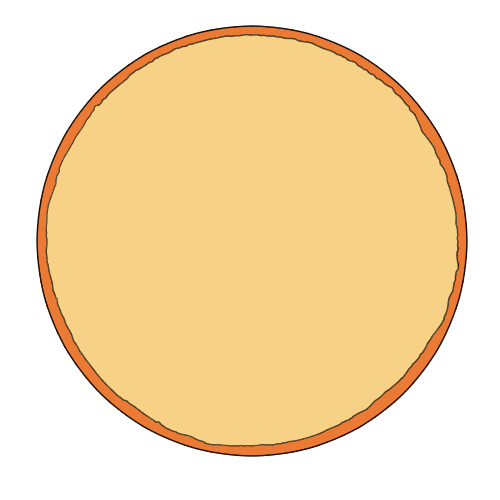
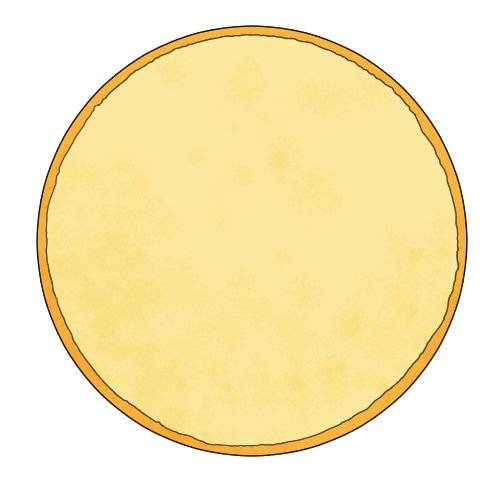
game setting final

Changed region(s): [[0.06, 0.03, 0.93, 0.93]]

diff --git a/src/comp/game/IngredientStack.jsx b/src/comp/game/IngredientStack.jsx
@@ -2,14 +2,25 @@ import React, { useState, useEffect } from 'react';
 import styled from 'styled-components';
 import patty from '../../assets/img/patty.png';
 import tomato from '../../assets/img/tomato.png';
-import backicon from '../../assets/icon/backicon.svg';
+import lettuce from '../../assets/img/lettuce.png';
+import cheese from '../../assets/img/cheese.png';
+import onion from '../../assets/img/onion.png';
+import bacon from '../../assets/img/bacon.png';
+import backicon from '../../assets/img/tongs.png';
 import bread_top from '../../assets/img/bread_top.png';
 import bread_bottom from '../../assets/img/bread_bottom.png';
+import bugger from '../../assets/img/bugger.png';
+import bell from '../../assets/img/bell.png';
+import { Link } from 'react-router-dom';
 
-const IngredientStack = () => {
+const IngredientStack = ({ orders }) => {
   const [stack, setStack] = useState([]);
   const [errorMessage, setErrorMessage] = useState("");
   const [top, setTop] = useState(null);
+
+  useEffect(() => {
+    console.log("주문 배열:", orders);
+  }, [orders]);
 
   useEffect(() => {
     console.log("현재 스택 값:", stack);
@@ -22,6 +33,19 @@ const IngredientStack = () => {
     setTop(value);
     setErrorMessage("");
     console.log("스택에 값이 추가되었습니다:", value);
+
+    if (value === 0) {
+      const reversedOrders = [...orders].reverse();
+      let ordersMatch = true;
+      for (let i = 0; i < newStack.length; i++) {
+          if (newStack[i] !== reversedOrders[i]) {
+              ordersMatch = false;
+              break;
+          }
+      }
+      console.log("비교 결과:", ordersMatch ? 1 : 0);
+  }
+
   };
 
   const handlePop = () => {
@@ -52,25 +76,32 @@ const IngredientStack = () => {
     <>
       <BackButton onClick={handlePop}></BackButton>
       <Dish image={
-          top === "1" ? patty :
-          top === "2" ? tomato :
-          top === "0" ? bread_top :
-          top === "7" ? bread_bottom :
+          top === 0 ? bread_top :
+          top === 1 ? tomato :
+          top === 2 ? lettuce :
+          top === 3 ? onion :
+          top === 4 ? bacon :
+          top === 5 ? cheese :
+          top === 6 ? patty :
+          top === 7 ? bread_bottom :
           null
       }></Dish>
+      <Bell to={'/outro'}/>
       <Desk>
-        <TopIngredient onClick={() => handlePush("0")} image={bread_top}></TopIngredient>
-        <TopIngredient onClick={() => handlePush("1")} image={patty}></TopIngredient>
-        <TopIngredient onClick={() => handlePush("2")} image={tomato}></TopIngredient>
-        <TopIngredient onClick={() => handlePush("7")} image={bread_bottom}></TopIngredient>
-        <BlueCircle onClick={handleBlueCircleClick}></BlueCircle>
+        <TopIngredient onClick={() => handlePush(0)} image={bread_top}></TopIngredient>
+        <TopIngredient onClick={() => handlePush(1)} image={tomato}></TopIngredient>
+        <TopIngredient onClick={() => handlePush(2)} image={lettuce}></TopIngredient>
+        <TopIngredient onClick={() => handlePush(3)} image={onion}></TopIngredient>
+        <TopIngredient onClick={() => handlePush(4)} image={bacon}></TopIngredient>
+        <TopIngredient onClick={() => handlePush(5)} image={cheese}></TopIngredient>
+        <TopIngredient onClick={() => handlePush(6)} image={patty}></TopIngredient>
+        <TopIngredient onClick={() => handlePush(7)} image={bread_bottom}></TopIngredient>
       </Desk>
-      </>
+    </>
   );
 };
 
 export default IngredientStack;
-
 
 const TopIngredient = styled.div`
     width : 100px;
@@ -92,14 +123,6 @@ const Desk = styled.div`
     align-items: center;
 `;
 
-const BlueCircle = styled.div`
-    width: 100px;
-    height: 100px;
-    background-color: blue;
-    border-radius: 50%; /* 원형 모양으로 만듦 */
-    cursor: pointer;
-`;
-
 const BackButton = styled.div`
     left: 50px;
     top: 50px;
@@ -108,6 +131,7 @@ const BackButton = styled.div`
     height: 50px;
     cursor: pointer;
     background : url(${backicon});
+    background-size : cover;
 `;
 
 const Dish = styled.div`
@@ -119,5 +143,16 @@ const Dish = styled.div`
     background: url(${props => props.image});
     background-size: cover;
     border-radius: 50%; /* 원형 모양으로 만듦 */
+    cursor: pointer;
+`;
+
+const Bell = styled(Link)`
+    position : absolute;
+    top: 55px;
+    left: 545px;
+    width : 90px;
+    height : 90px;
+    background : url(${bell});  
+    background-size: cover;
     cursor: pointer;
 `;

diff --git a/src/comp/game/OrderStack.jsx b/src/comp/game/OrderStack.jsx
@@ -1,31 +1,55 @@
 import React, { useState, useEffect } from 'react';
 import styled from 'styled-components';
+import IngredientStack from './IngredientStack';
 
 const OrderStack = () => {
     const [orders, setOrders] = useState([]);
 
-    // 주문 배열 생성 함수
     const generateOrders = () => {
         const newOrders = Array.from({ length: 10 }, (_, index) => {
-            if (index === 0) return 0; // 첫 번째 항목은 0으로 고정
-            if (index === 9) return 7; // 마지막 항목은 7로 고정
+            if (index === 0) return 0;
+            if (index === 9) return 7; 
             return Math.floor(Math.random() * 6) + 1;
         });
         setOrders(newOrders);
     };
+    
+    const mapNumberToIngredient = (number) => {
+        switch(number) {
+            case 0:
+                return '빵';
+            case 1:
+                return '토마토';
+            case 2:
+                return '양상추';
+            case 3:
+                return '양파';
+            case 4:
+                return '베이컨';
+            case 5:
+                return '치즈';
+            case 6:
+                return '패티';
+            case 7:
+                return '빵';
+            default:
+                return '';
+        }
+    };
 
     useEffect(() => {
         generateOrders();
-    }, []); // 컴포넌트가 마운트될 때 주문 배열 생성
+    }, []);
 
     return (
         <div>
             <h2>주문 내역</h2>
             <Bill>
                 {orders.map((order, index) => (
-                    <div key={index}>주문 {index + 1}: {order}</div>
+                 <div key={index}>{index + 1}층: {mapNumberToIngredient(order)}</div>
                 ))}
             </Bill>
+            <IngredientStack orders={orders} />
         </div>
     );
 };
@@ -33,5 +57,5 @@ const OrderStack = () => {
 export default OrderStack;
 
 const Bill = styled.div`
-    /* 필요한 스타일링을 여기에 추가하세요 */
+    
 `;

diff --git a/src/comp/game/GamePage.jsx b/src/comp/game/GamePage.jsx
@@ -1,9 +1,9 @@
 import React, { useState } from 'react';
 import styled from 'styled-components';
-import background from '../../assets/img/playbackground.png';
+import background from '../../assets/img/gamebackground.jpg';
 import IngredientStack from './IngredientStack';
 import OrderStack from './OrderStack';
-import bell from '../../assets/img/bell.png';
+
 
 const GamePage = () => {
     return (
@@ -11,7 +11,6 @@ const GamePage = () => {
             <Back>
                 <IngredientStack/>    
                 <OrderStack/>
-                <Bell/> 
             </Back>
         </div>
     );
@@ -26,15 +25,5 @@ const Back = styled.div`
     width : 1280px;
     height : 720px;
     background : url(${background});
-    background-size: cover;
-`;
-
-const Bell = styled.div`
-    position : absolute;
-    top: 55px;
-    left: 545px;
-    width : 90px;
-    height : 90px;
-    background : url(${bell});  
     background-size: cover;
 `;

diff --git a/src/App.js b/src/App.js
@@ -5,6 +5,8 @@ import Register from './comp/login/Register';
 import Login from './comp/login/Login';
 import Home from './comp/login/Home';
 import InHome from './comp/login/InHome';
+import Outro from './comp/outro/Outro';
+
 import { BrowserRouter, Routes, Route } from "react-router-dom";
 import './index.css';
 
@@ -20,6 +22,7 @@ function App() {
           <Route path="/gamepage" element={<GamePage/>}></Route>
           <Route path='/register' element={<Register/>}></Route>
           <Route path='/login' element={<Login/>}></Route>
+          <Route path='/outro' element={<Outro/>}></Route>
         </Routes>
       </BrowserRouter>
     </div>

diff --git a/src/comp/outro/Outro.jsx b/src/comp/outro/Outro.jsx
@@ -1,0 +1,26 @@
+import React, { useState } from 'react';
+import styled from 'styled-components';
+import background from '../../assets/img/storebackground.png';
+
+
+const Outro = () => {
+   
+
+    return (
+        <div>
+            <Back>
+                <h1>아</h1>
+            </Back>
+        </div>
+    );
+};
+
+export default Outro;
+
+const Back = styled.div`
+    display : flex;
+    width : 1280px;
+    height : 720px;
+    background : url(${background});
+    background-size: cover;
+`;
